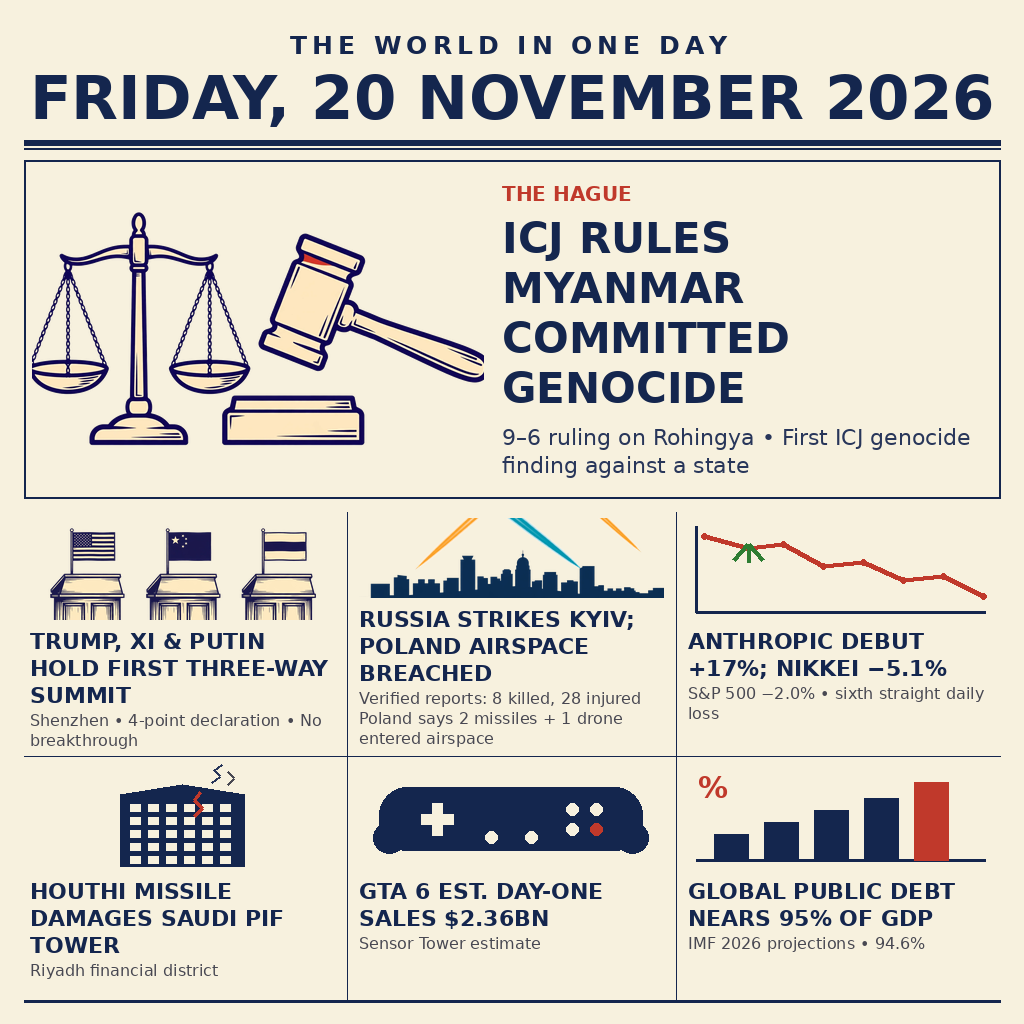
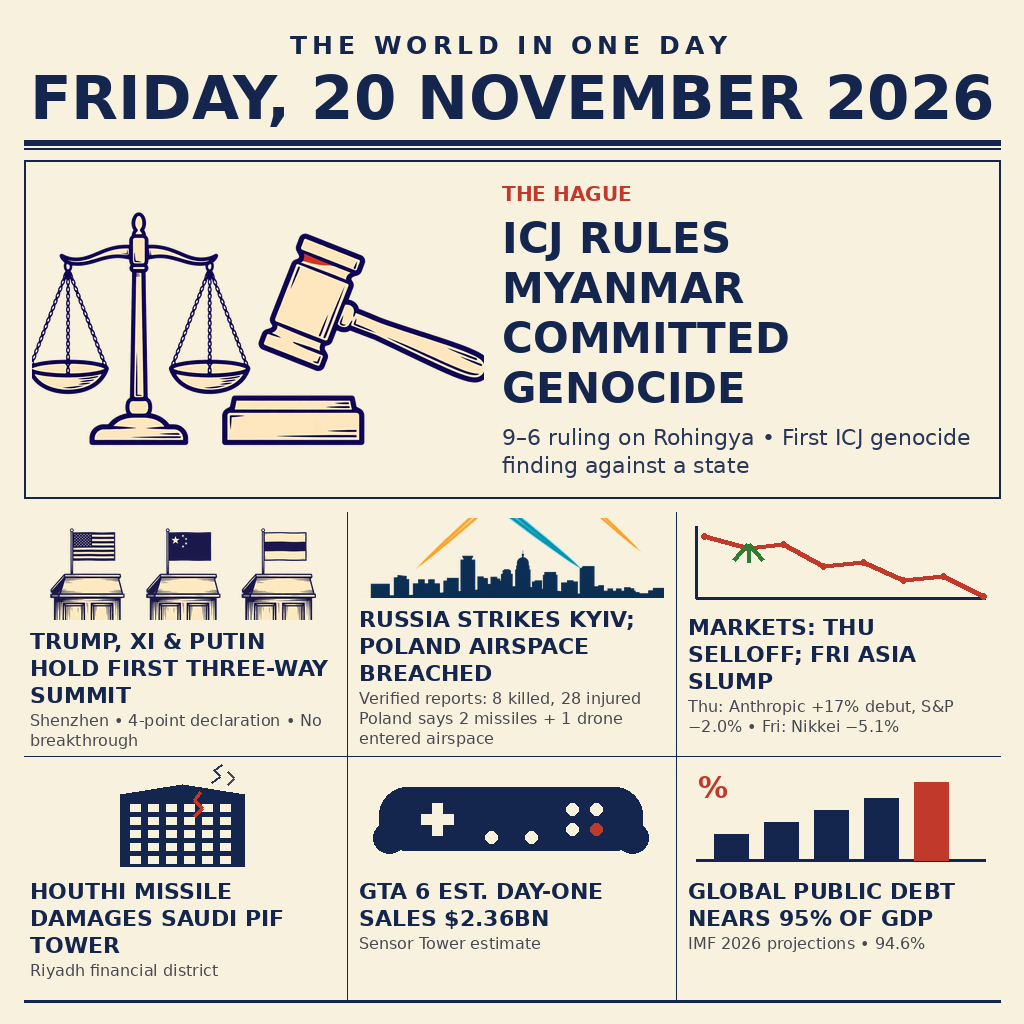
Micro-revision: markets panel now date-tagged (Thu selloff / Fri Asia slump)

Changed region(s): [[0.6562, 0.5938, 0.9688, 0.7188]]

diff --git a/build_image.py b/build_image.py
@@ -251,8 +251,8 @@ def main():
          ["Verified reports: 8 killed, 28 injured",
           "Poland says 2 missiles + 1 drone entered airspace"], 80),
         (0, 2, ("chart", None, None, None),
-         "ANTHROPIC DEBUT +17%; NIKKEI −5.1%",
-         "S&P 500 −2.0% • sixth straight daily loss", 102),
+         "MARKETS: THU SELLOFF; FRI ASIA SLUMP",
+         "Thu: Anthropic +17% debut, S&P −2.0% • Fri: Nikkei −5.1%", 88),
         (1, 0, ("tower", None, None, None),
          "HOUTHI MISSILE DAMAGES SAUDI PIF TOWER",
          "Riyadh financial district", 102),
